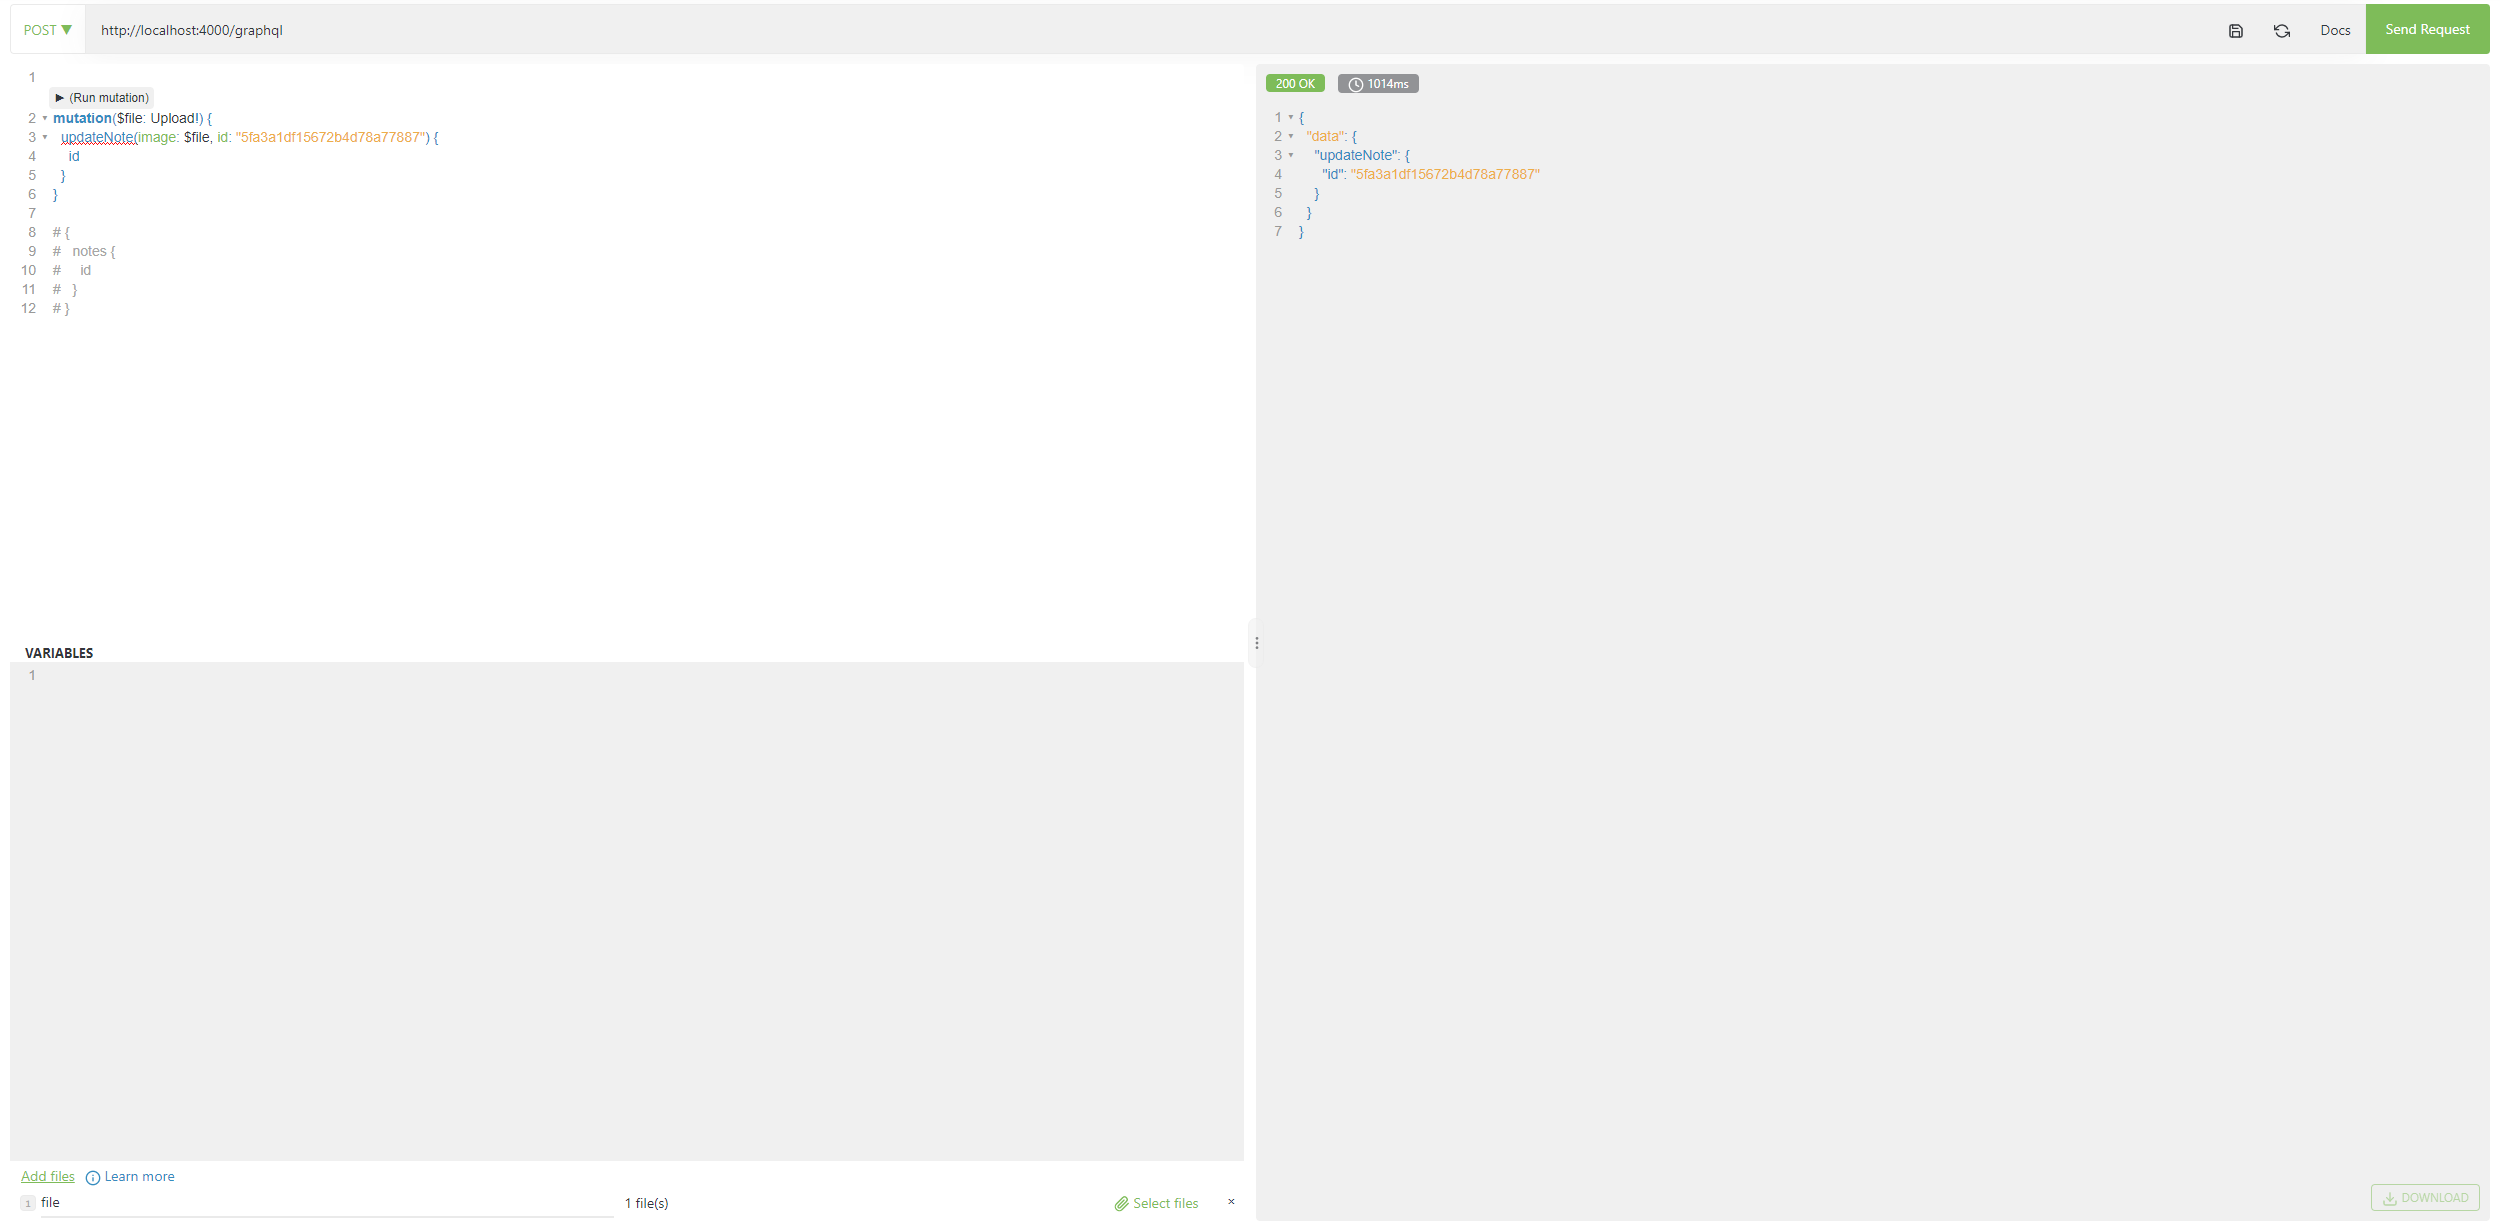
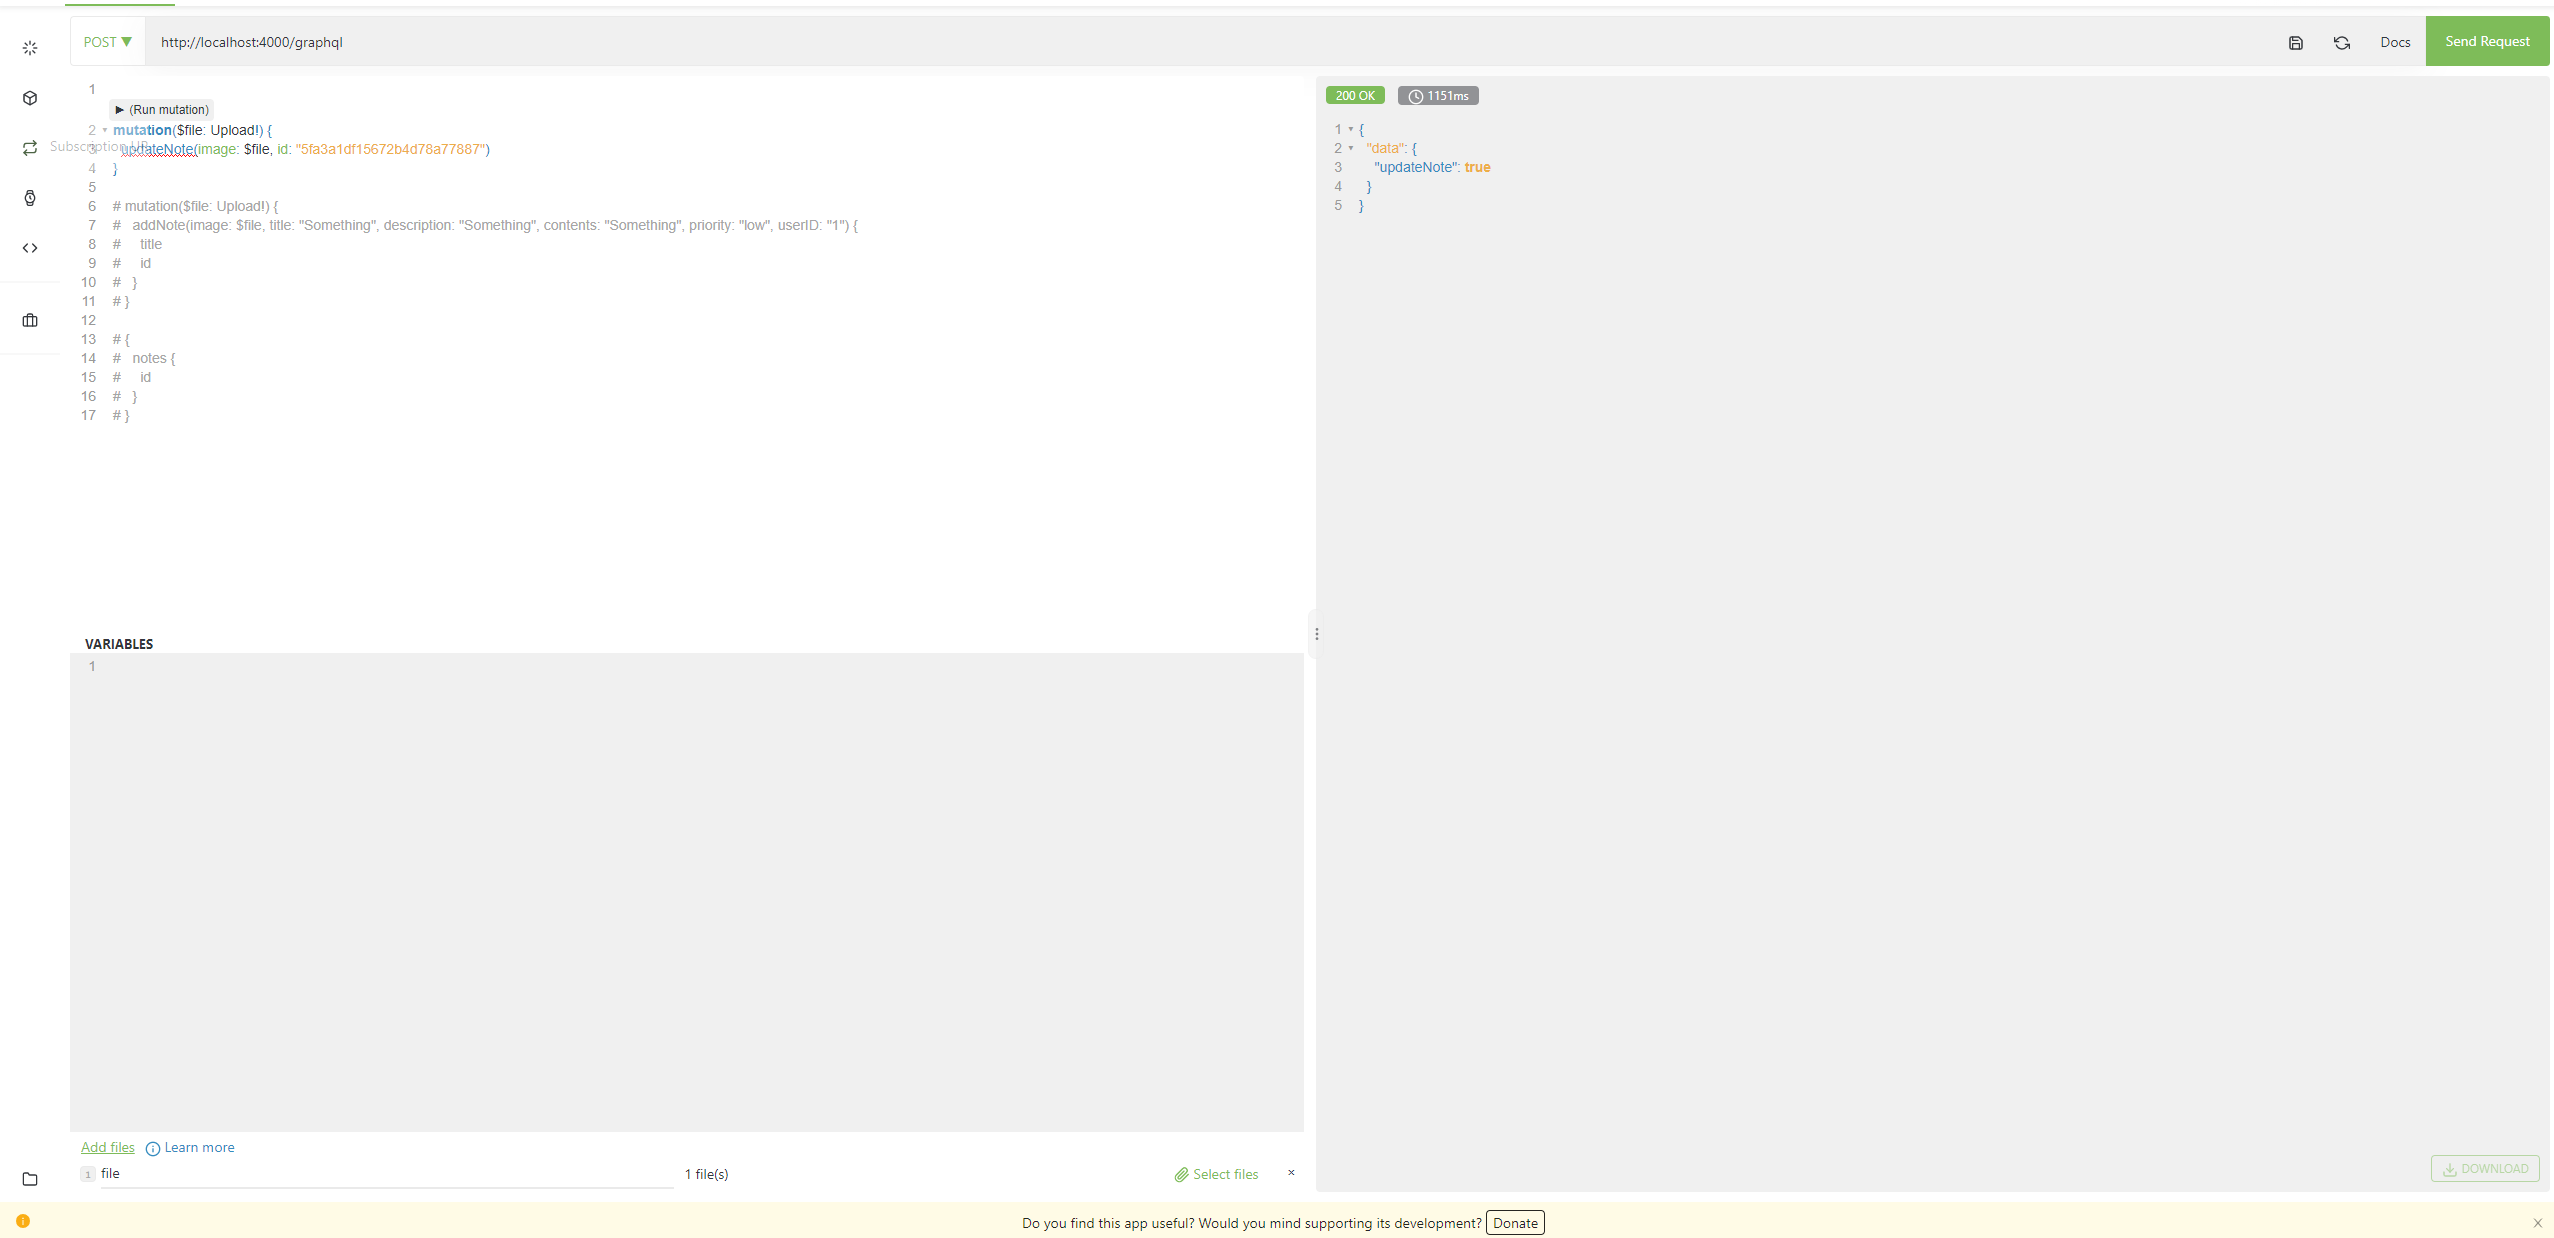
Added incorrect screenshot

diff --git a/schema/schema.js b/schema/schema.js
@@ -16,6 +16,7 @@ const {
   GraphQLID, 
   GraphQLString,
   GraphQLList,
+  GraphQLBoolean
 } = graphql;
 const { GraphQLUpload } = require('graphql-upload');
 
@@ -137,6 +138,14 @@ const Mutation = new GraphQLObjectType({
       },
       async resolve(parent, args) {
 
+        let note = new Note({
+          title: args.title,
+          description: args.description,
+          contents: args.contents,
+          priority: args.priority,
+          userID: args.userID,
+        })
+
         if (args.image !== undefined) {
           const { createReadStream } = await args.image;
           const stream = createReadStream();
@@ -145,14 +154,7 @@ const Mutation = new GraphQLObjectType({
               if (result) {
                 const resultUrl = result.secure_url;
                 const resultSecureUrl = result.secure_url;
-                let note = new Note({
-                  title: args.title,
-                  description: args.description,
-                  contents: args.contents,
-                  priority: args.priority,
-                  userID: args.userID,
-                  image_url: resultSecureUrl
-                });
+                note.image_url = resultSecureUrl;
                 note.save();
                 resolve(resultUrl)
               } else {
@@ -160,14 +162,6 @@ const Mutation = new GraphQLObjectType({
               }
             });
             stream.pipe(streamLoad);
-          });
-
-          let note = new Note({
-            title: args.title,
-            description: args.description,
-            contents: args.contents,
-            priority: args.priority,
-            userID: args.userID,
           });
 
           return note;
@@ -185,13 +179,14 @@ const Mutation = new GraphQLObjectType({
       },
     },
     updateNote: {
-      type: NoteType,
+      type: GraphQLBoolean,
       args: {
-        id: { type: GraphQLString },
+        id: { type: GraphQLID },
         image: { type: GraphQLUpload },
       },
       async resolve(parent, args) {
         let found = Note.findById(args.id);
+        let resultSecureUrl = '';
 
         const { createReadStream } = await args.image;
         const stream = createReadStream();
@@ -199,8 +194,7 @@ const Mutation = new GraphQLObjectType({
           const streamLoad = cloudinary.uploader.upload_stream(function (error, result) {
             if (result) {
               const resultUrl = result.secure_url;
-              const resultSecureUrl = result.secure_url;
-              found.updateOne({ image_url: resultSecureUrl });
+              resultSecureUrl = result.secure_url;
               resolve(resultUrl)
             } else {
               reject(error);
@@ -208,8 +202,8 @@ const Mutation = new GraphQLObjectType({
           });
           stream.pipe(streamLoad);
         });
-
-        return found;
+        await found.updateOne({ image_url: resultSecureUrl });
+        return true;
       }
     }
   }
